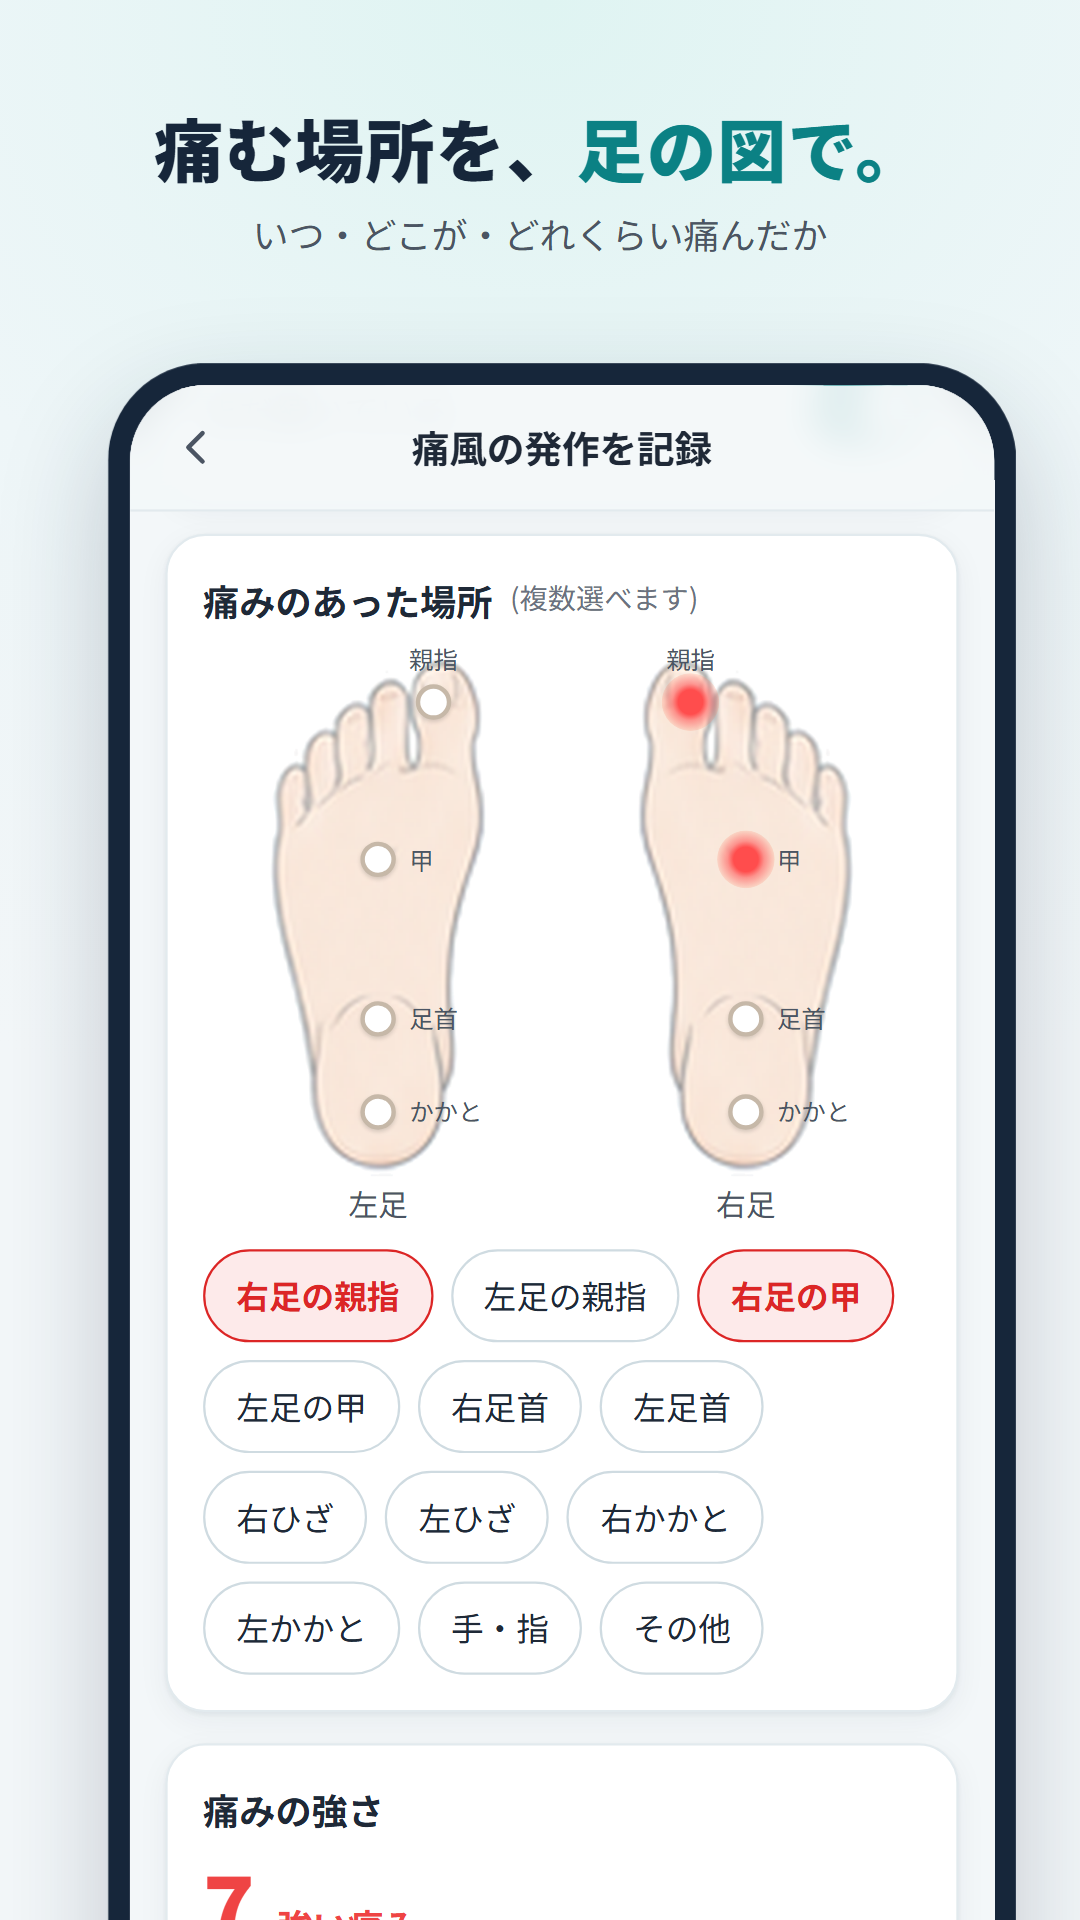
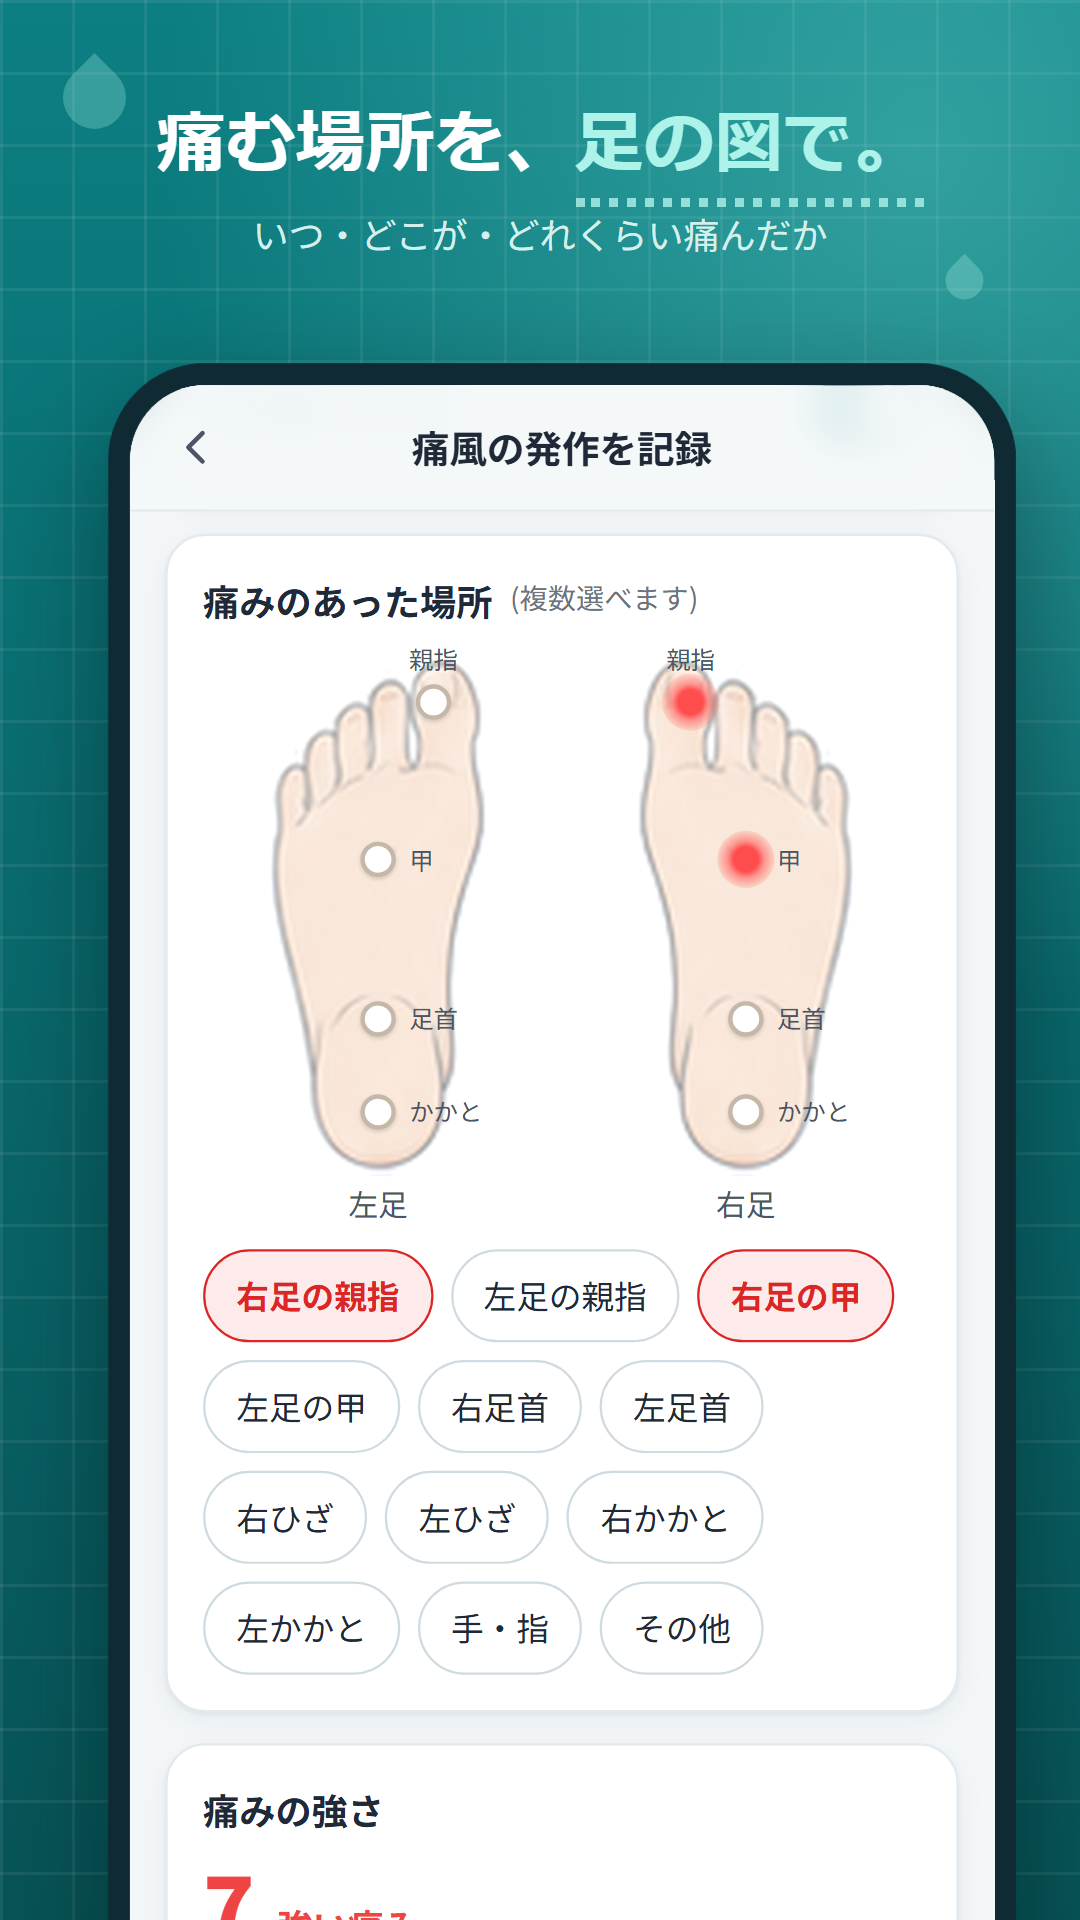
Play のストア画像を白っぽい地から青緑の濃い地(方眼・しずく)に、見出しをメイリオ太字(白)に
元の画像は store/_cream_backup_2026-10-10/play/。

diff --git a/scripts/store_shots.py b/scripts/store_shots.py
@@ -5,7 +5,10 @@ python scripts/store_shots.py
 - store/play/feature_1024x500.png
 アイコン(store/icon-1024.png・store/play/icon_512.png)は icon_assets.py が作る。
 iOS はこの版では出し直さないので store/ios/ は作り直さない。
-画面は見本の記録(架空)で撮る。値段と「無料」の文字は写さない(写っていたら止まる)。"""
+画面は見本の記録(架空)で撮る。値段と「無料」の文字は写さない(写っていたら止まる)。
+2026-10-10 持ち主「Claude 特有の背景をなくして」: 白っぽいグラデーションをやめ、アプリの青緑の濃い地+記録用紙の方眼・
+水のしずくの飾りにした。見出しはメイリオ太字(白)。前の版は store/_cream_backup_2026-10-10/play/。
+画面は毎回アプリを動かして撮る(組むだけの写真の置き場は無い)。dist-e2e を使う。"""
 import base64
 import os
 import sys
@@ -21,6 +24,13 @@ sys.path.insert(0, os.path.join(ROOT, "scripts"))
 from e2e_util import serve  # noqa: E402
 
 FONT = '"Hiragino Sans","Noto Sans JP","Yu Gothic UI","Meiryo",sans-serif'
+HEAD = '"Meiryo",sans-serif'   # 見出し(メイリオ太字)
+# 青緑の濃い地に、記録用紙の方眼(細い白線)を重ねる
+TEAL_BG = ("background-color:#0a6b6e;"
+           "background-image:radial-gradient(70% 45% at 85% 8%,rgba(120,230,220,.35) 0,rgba(120,230,220,0) 100%),"
+           "linear-gradient(rgba(255,255,255,.07) 1px,transparent 1px),linear-gradient(90deg,rgba(255,255,255,.07) 1px,transparent 1px),"
+           "linear-gradient(180deg,#0c7f82 0,#075457 100%);"
+           "background-size:auto,24px 24px,24px 24px,auto")
 
 
 def data_uri(name):
@@ -43,16 +53,18 @@ def frame_html(url, w, h, title, sub, app_w):
     app_h = int((h - cap_h) / scale) + 40
     left = int((w - app_w * scale) / 2)
     return f"""<!doctype html><html><head><meta charset="utf-8"><style>
-html,body{{margin:0;width:{w}px;height:{h}px;overflow:hidden;font-family:{FONT};
- background:radial-gradient(120% 60% at 50% 0%,#dff4f2 0,#eef6f8 55%,#f3f7f9 100%)}}
-.cap{{height:{cap_h}px;display:flex;flex-direction:column;justify-content:center;align-items:center;text-align:center;padding:0 {int(w*0.05)}px;color:#16263a}}
-.cap b{{font-size:{int(w*0.066)}px;letter-spacing:.02em;line-height:1.3;font-weight:800}}
-.cap b em{{font-style:normal;color:#0b8184}}
-.cap span{{font-size:{int(w*0.034)}px;color:#4b5563;margin-top:{int(w*0.014)}px}}
+html,body{{margin:0;width:{w}px;height:{h}px;overflow:hidden;font-family:{FONT};{TEAL_BG}}}
+.cap{{height:{cap_h}px;display:flex;flex-direction:column;justify-content:center;align-items:center;text-align:center;padding:0 {int(w*0.05)}px;color:#fff}}
+.cap b{{font-family:{HEAD};font-size:{int(w*0.064)}px;letter-spacing:.01em;line-height:1.3;font-weight:700}}
+.cap b em{{font-style:normal;color:#aef3ea;border-bottom:3px dotted rgba(174,243,234,.8)}}
+.cap span{{font-size:{int(w*0.034)}px;color:#d5efec;margin-top:{int(w*0.014)}px}}
+.drop{{position:absolute;width:{int(w*0.06)}px;height:{int(w*0.06)}px;background:rgba(174,243,234,.28);border-radius:50% 0 50% 50%;transform:rotate(-45deg)}}
 .phone{{position:absolute;left:{left}px;top:{cap_h}px;width:{app_w}px;height:{app_h}px;transform:scale({scale});transform-origin:0 0;
- border-radius:44px 44px 0 0;overflow:hidden;background:#f3f7f9;border:10px solid #16263a;border-bottom:0;box-shadow:0 20px 50px rgba(22,38,58,.22)}}
+ border-radius:44px 44px 0 0;overflow:hidden;background:#f3f7f9;border:10px solid #0f2a33;border-bottom:0;box-shadow:0 20px 50px rgba(0,20,24,.45)}}
 iframe{{border:0;width:{app_w}px;height:{app_h}px;background:#f3f7f9}}
-</style></head><body><div class="cap"><b>{title}</b><span>{sub}</span></div>
+</style></head><body><div class="drop" style="left:{int(w*0.06)}px;top:{int(h*0.035)}px"></div>
+<div class="drop" style="right:{int(w*0.08)}px;top:{int(h*0.13)}px;transform:rotate(-45deg) scale(.6)"></div>
+<div class="cap"><b>{title}</b><span>{sub}</span></div>
 <div class="phone"><iframe id="app" src="{url}"></iframe></div></body></html>"""
 
 
@@ -89,14 +101,13 @@ def main():
             # Play のフィーチャー画像(1024x500)。絵は見本から切り出した物
             pg = b.new_page(viewport={"width": 1024, "height": 500})
             pg.set_content(f"""<html><head><style>
-body{{margin:0;width:1024px;height:500px;overflow:hidden;font-family:{FONT};color:#16263a;
- background:radial-gradient(90% 120% at 15% 10%,#e3f6f4 0,#f3f8fa 60%,#eaf3f6 100%);position:relative}}
+body{{margin:0;width:1024px;height:500px;overflow:hidden;font-family:{FONT};color:#fff;{TEAL_BG};position:relative}}
 .l{{position:absolute;left:64px;top:70px;width:640px}}
-.logo{{width:116px;height:116px;border-radius:26px;box-shadow:0 10px 24px rgba(11,129,132,.25)}}
-.t{{font-size:66px;font-weight:800;letter-spacing:.05em;margin-top:18px;line-height:1.1}}
-.s{{font-size:28px;color:#0b8184;font-weight:700;margin-top:10px}}
+.logo{{width:116px;height:116px;border-radius:26px;box-shadow:0 10px 24px rgba(0,20,24,.4)}}
+.t{{font-family:{HEAD};font-size:66px;font-weight:700;letter-spacing:.04em;margin-top:18px;line-height:1.1}}
+.s{{font-family:{HEAD};font-size:28px;color:#aef3ea;font-weight:700;margin-top:10px}}
 .f{{display:flex;gap:12px;margin-top:30px}}
-.f div{{white-space:nowrap;display:flex;align-items:center;gap:8px;background:#fff;border-radius:16px;padding:8px 14px 8px 8px;font-size:19px;font-weight:700;box-shadow:0 4px 12px rgba(22,38,58,.08)}}
+.f div{{white-space:nowrap;display:flex;align-items:center;gap:8px;background:#fff;color:#0f2a33;border-radius:16px;padding:8px 14px 8px 8px;font-size:19px;font-weight:700;box-shadow:0 4px 12px rgba(0,20,24,.25)}}
 .f img{{width:40px;height:40px}}
 .p{{position:absolute;right:40px;bottom:0;width:330px}}
 .c{{position:absolute;right:300px;top:46px;width:120px;opacity:.95}}
